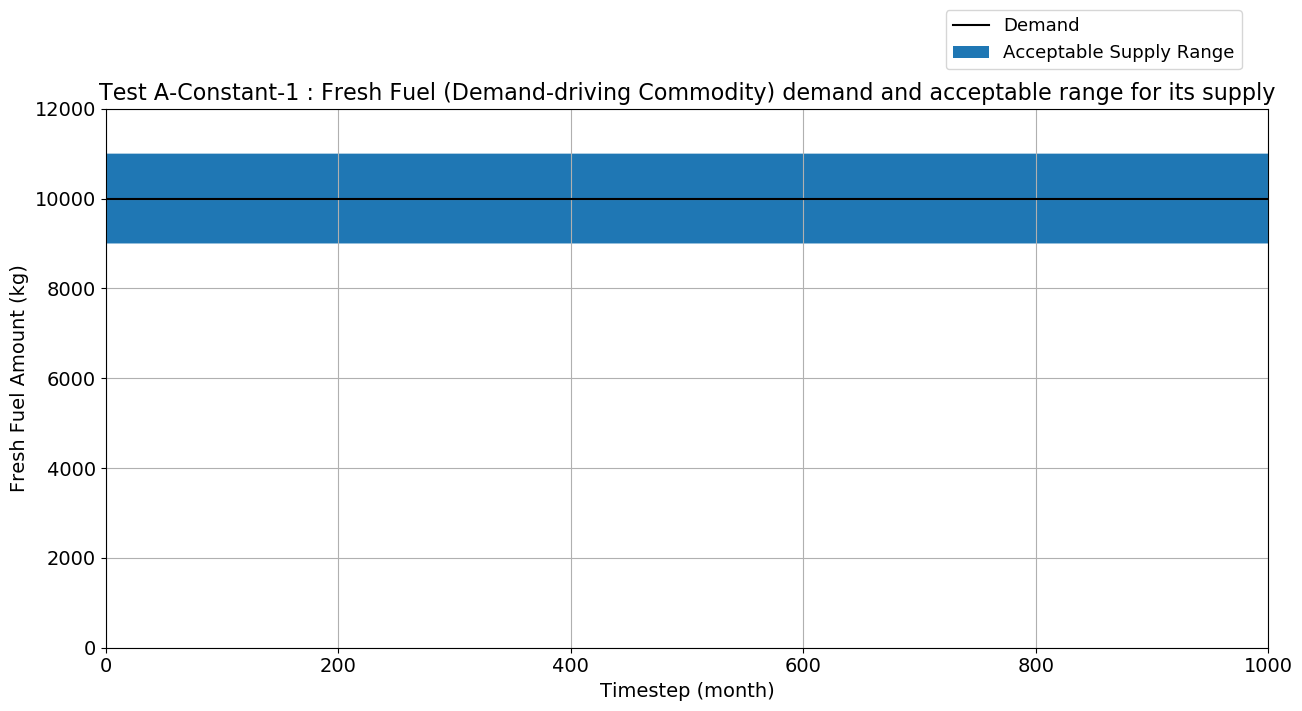
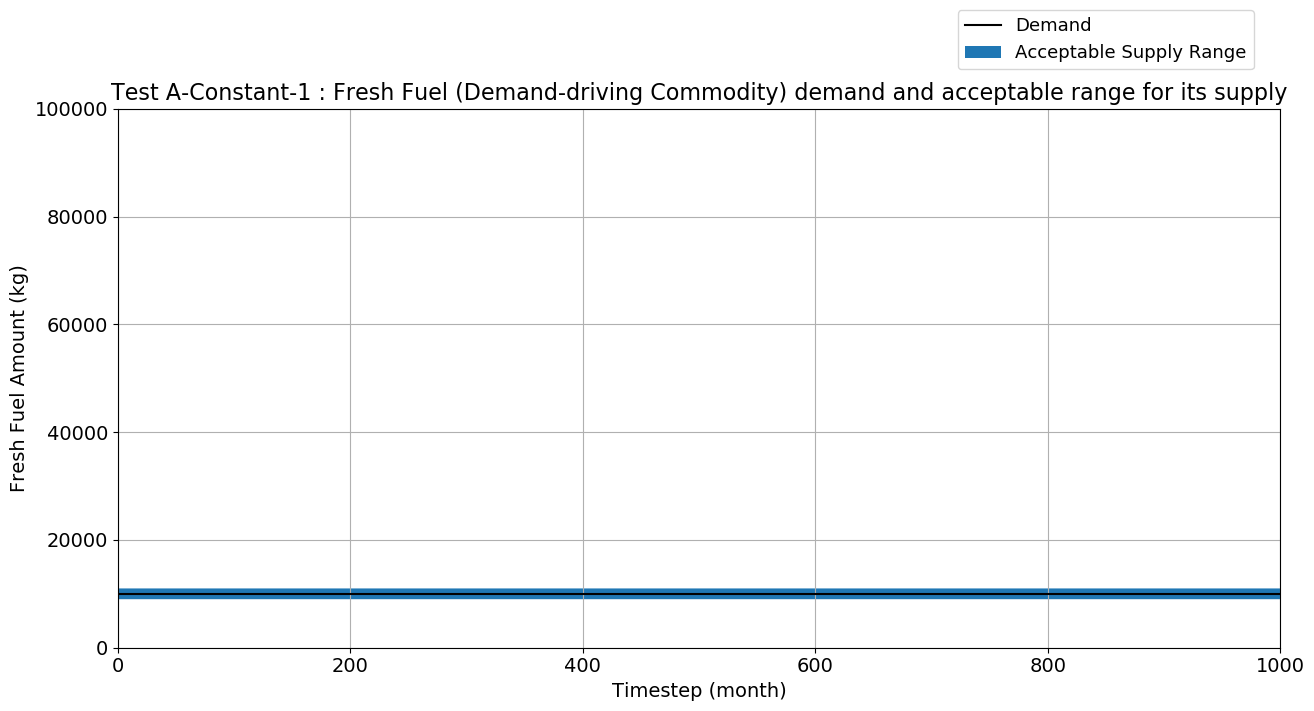
minor changes

diff --git a/docs/no/figures/plot_figures.py b/docs/no/figures/plot_figures.py
@@ -50,7 +50,7 @@ def plot_demand_supply(duration,demand_curve,input1,input2,commodity,test_name):
     handles,labels = ax.get_legend_handles_labels()
     ax.legend(handles, labels, fontsize=13,loc='upper center',bbox_to_anchor=(0.85,1.2),fancybox=True)
     ax.set_xlim(0,duration)
-    ax.set_ylim(0,(y_vals[-1]*1.2))
+    ax.set_ylim(0,100000)
     plt.xticks(fontsize=14)
     plt.yticks(fontsize=14)
     ax.set_xlabel('Timestep (month)',fontsize=14)
@@ -62,4 +62,4 @@ def plot_demand_supply(duration,demand_curve,input1,input2,commodity,test_name):
 
 plot_demand_supply(1000,'exponential',10000,0,'Fresh Fuel','A-Constant-1')
 plot_demand_supply(1000,'linear',10,0,'Fresh Fuel','A-Growth-1')
-plot_demand_supply(1000,'linear',10,1000,'Fresh Fuel','A-Growth-2')
+plot_demand_supply(1000,'exponential',10,1,'Fresh Fuel','A-Growth-2')

diff --git a/docs/no/no_numerical_exp_report.tex b/docs/no/no_numerical_exp_report.tex
@@ -222,7 +222,7 @@ Figure \ref{fig:test-a-growth-2-demand} shows the demand of the demand-driving c
 		\includegraphics[scale=0.4]{./figures/demand_supply_A-Growth-2.png}
 	\end{center}
         \caption{Power demand for test A-growth-2 and acceptable range for its supply.}
-	\label{fig:test-a-growth-1-demand}
+	\label{fig:test-a-growth-2-demand}
 \end{figure}
 
 \end{document}
